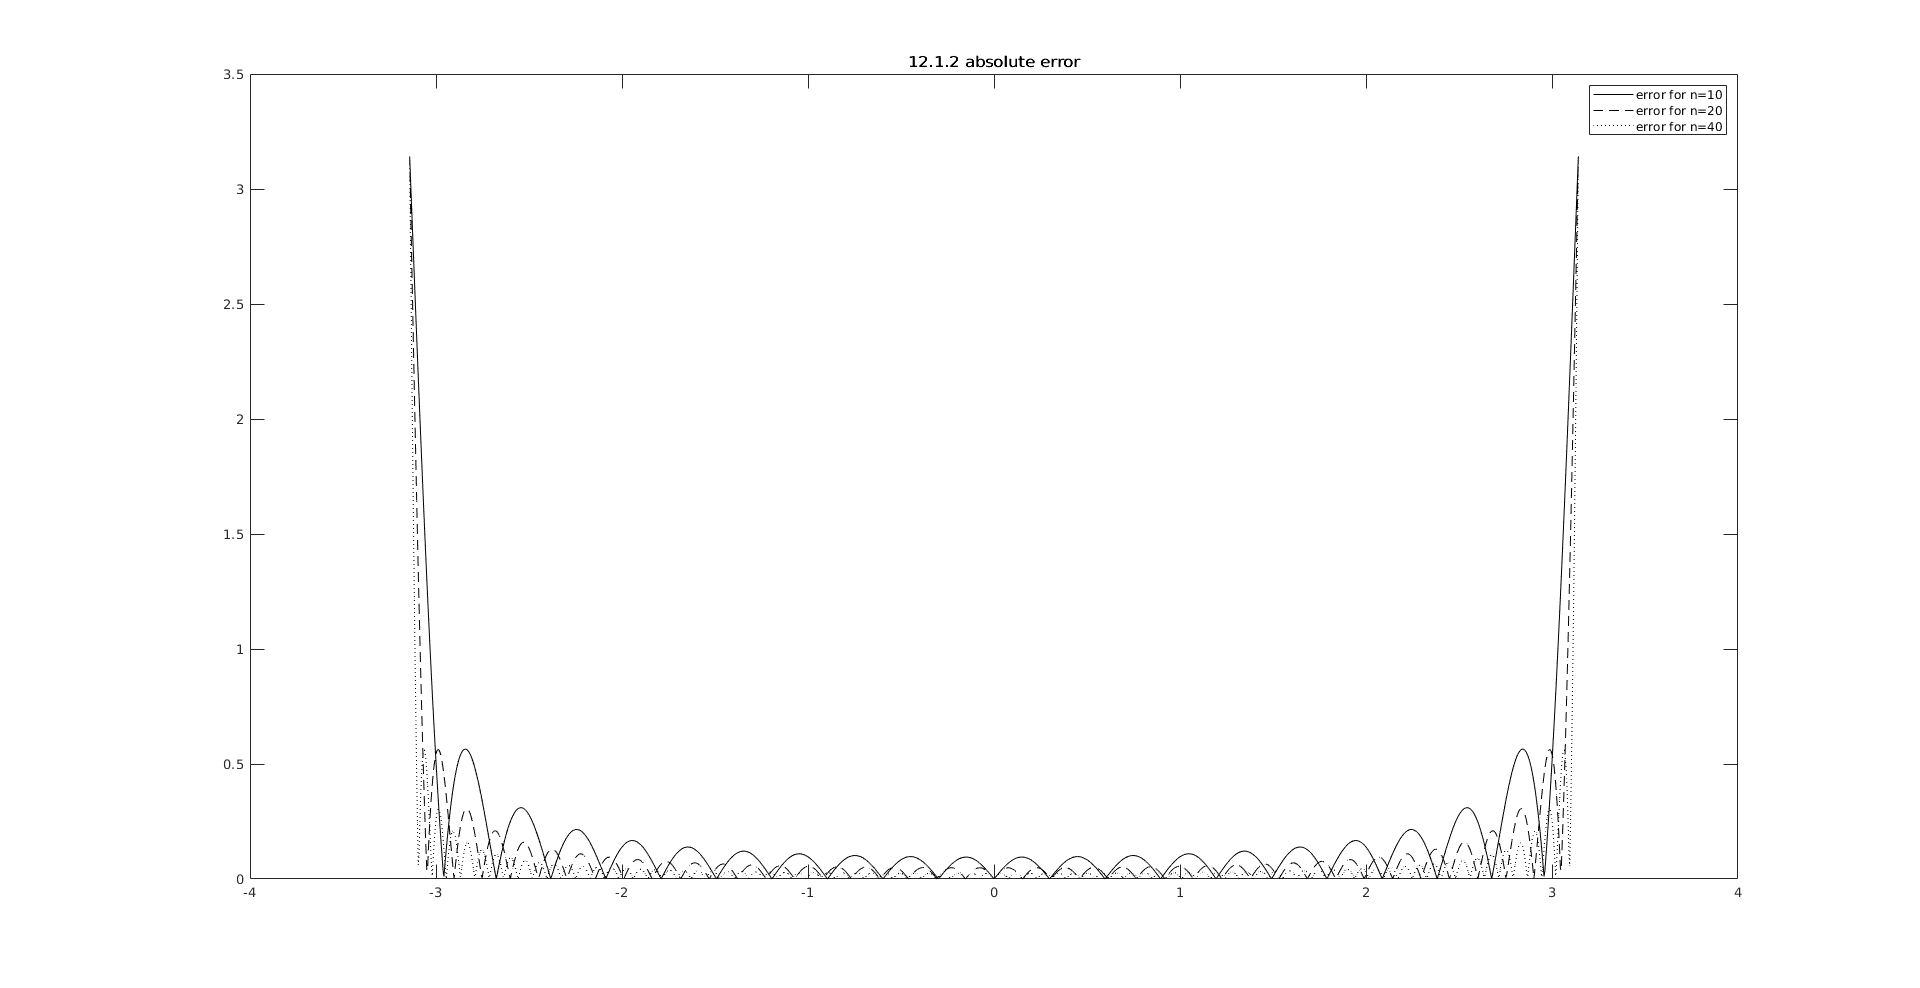
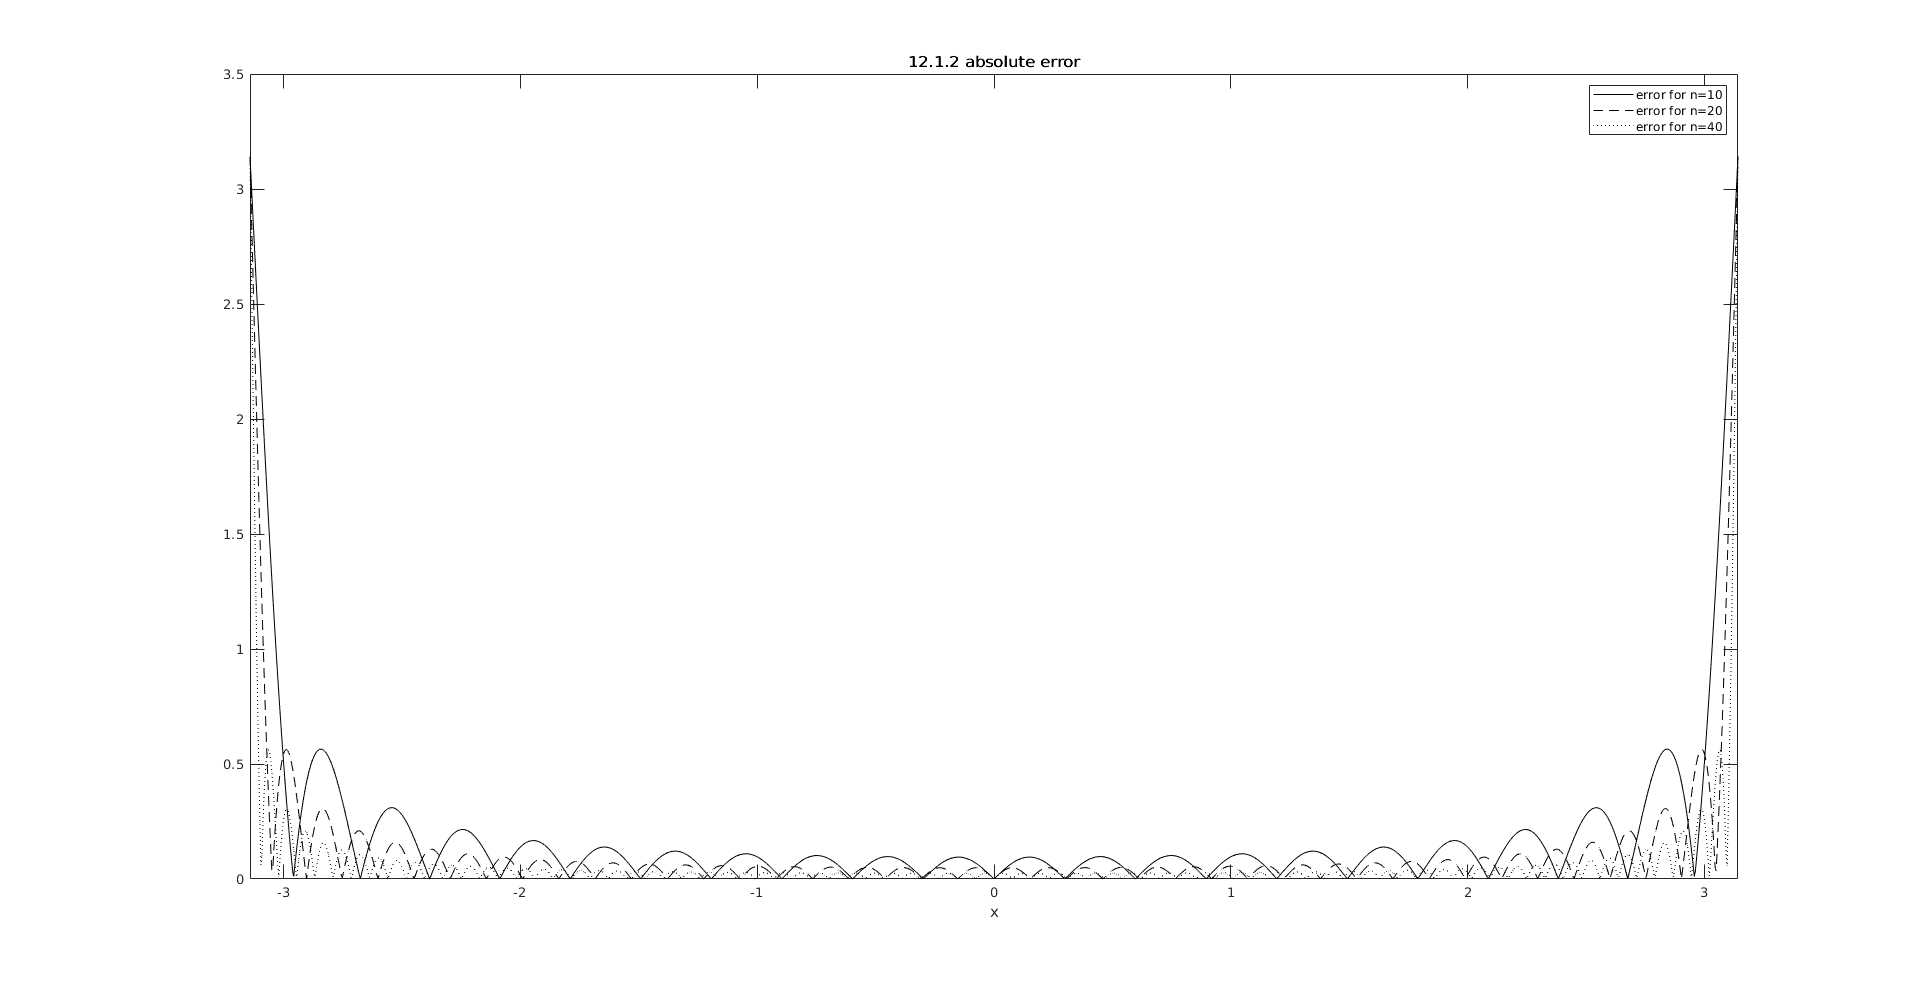
Make 12.1.2 plot prettier
Added an x-axis label and made the x-limits coincide with the actual
domain of the problem.

Changed region(s): [[0.125, 0.7591, 0.9062, 0.9109]]

diff --git a/ps4/ps4_a.m b/ps4/ps4_a.m
@@ -37,5 +37,7 @@ errors = abs(fs - repmat(xs, length(ns), 1));
 figure();
 plot(xs, errors(1, :), 'k', xs, errors(2, :), 'k--', xs, errors(3, :), 'k:');
 
+xlabel('x');
+xlim([-pi, pi]);
 legend(strcat('error for n=', string(ns)));
 title(strcat(problem_number, ' absolute error'));
